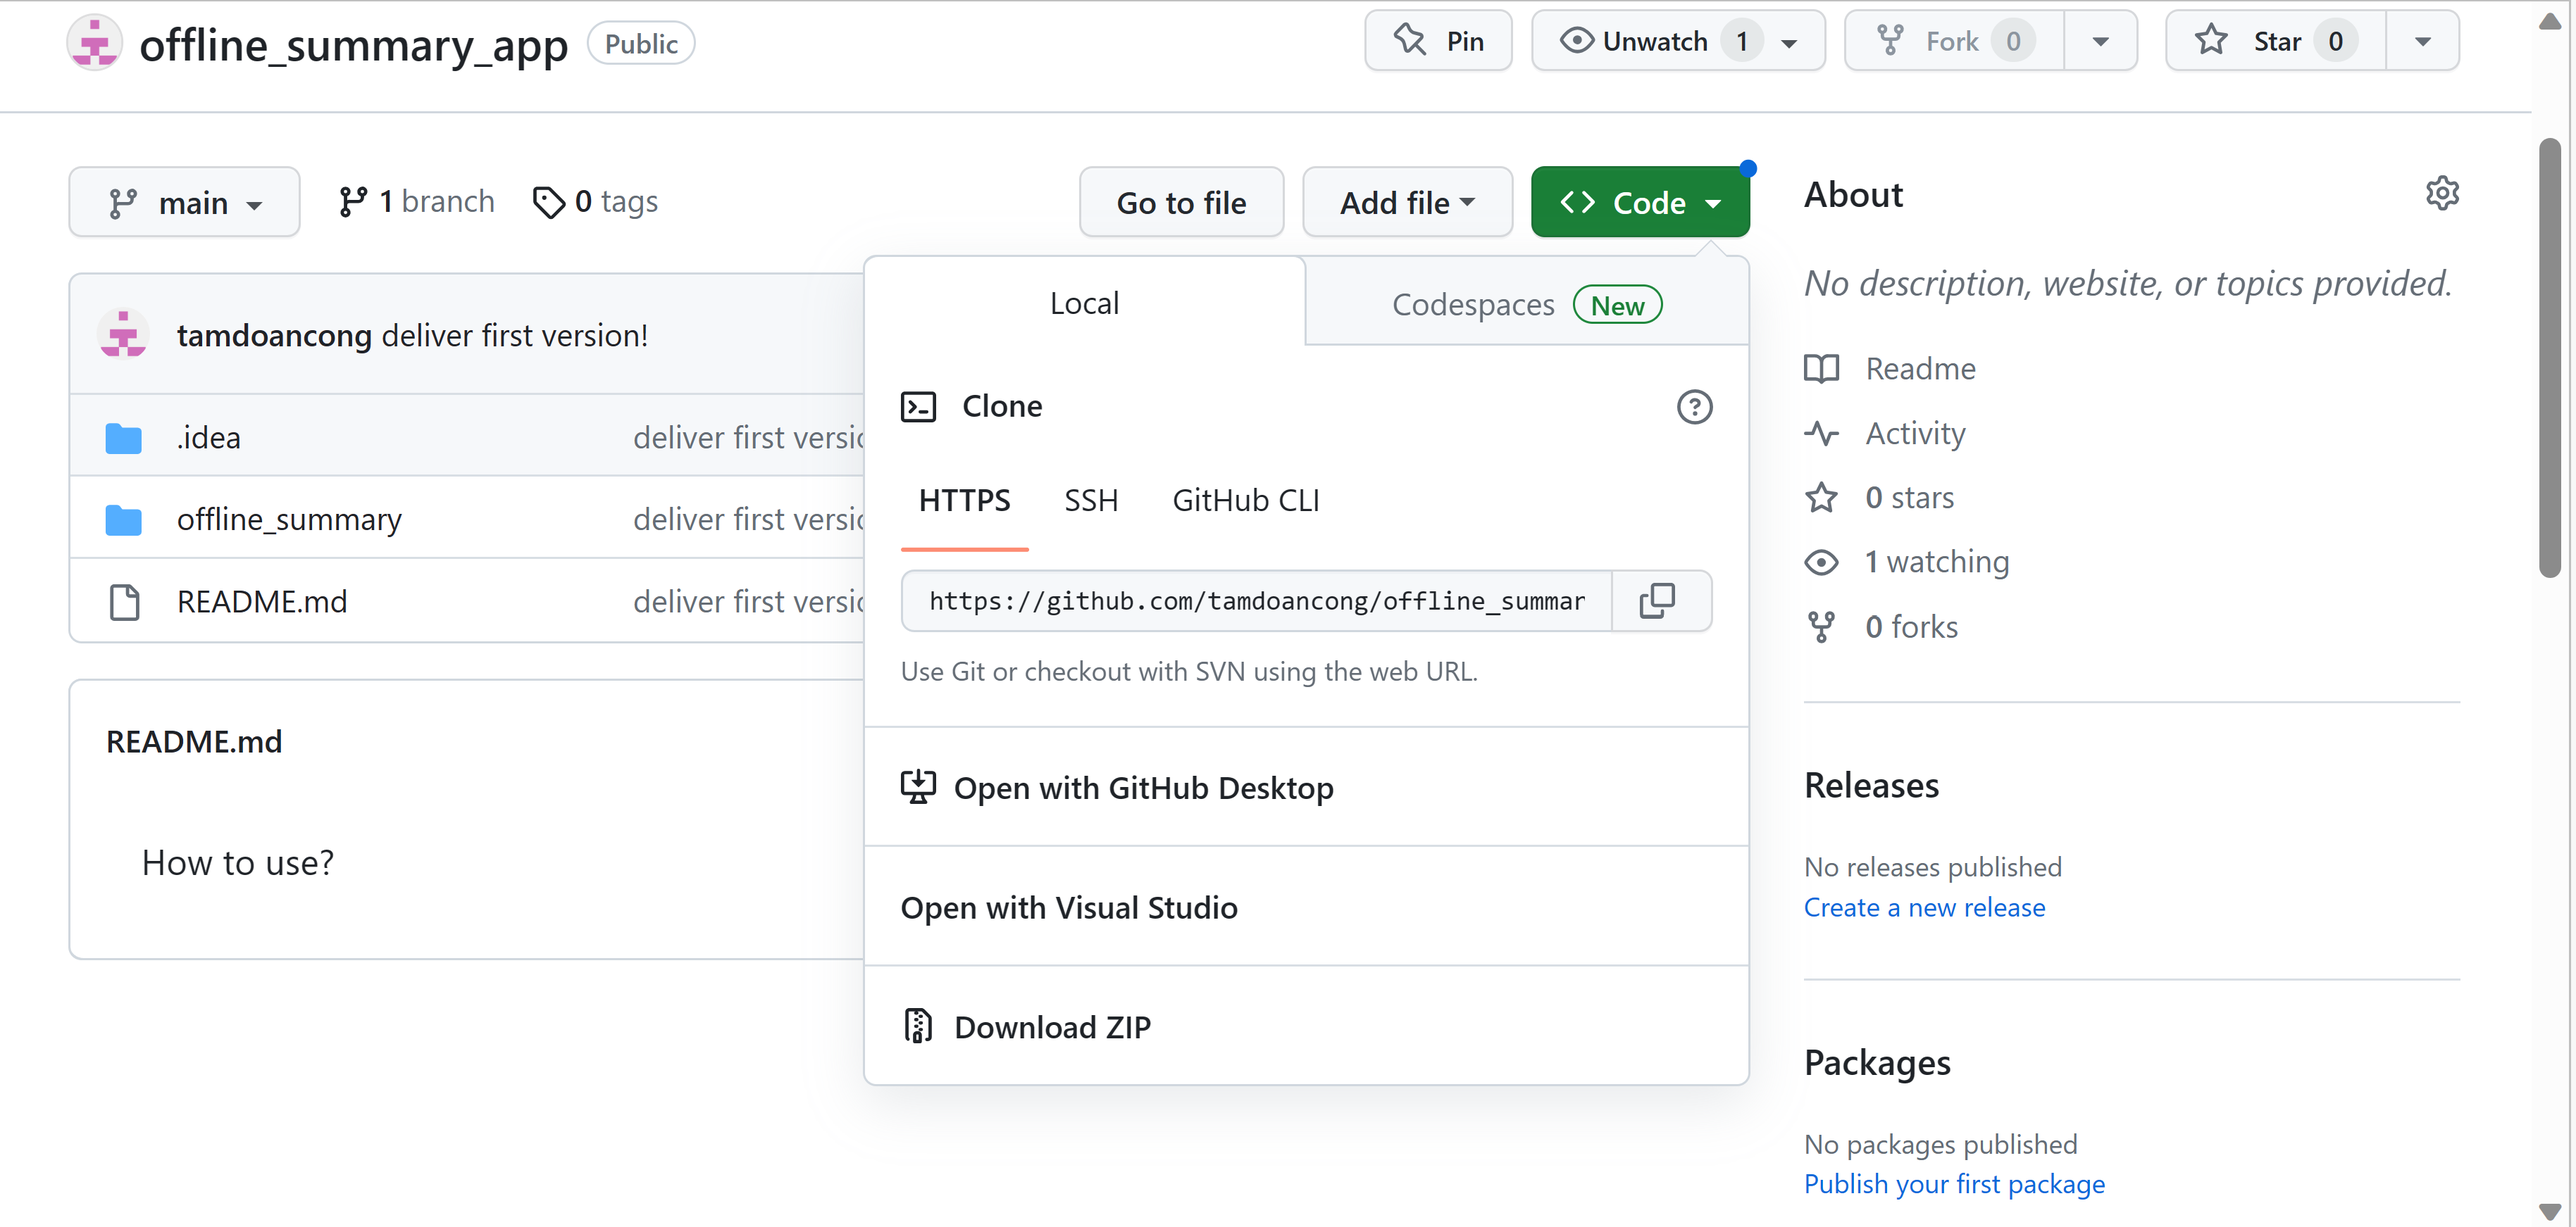
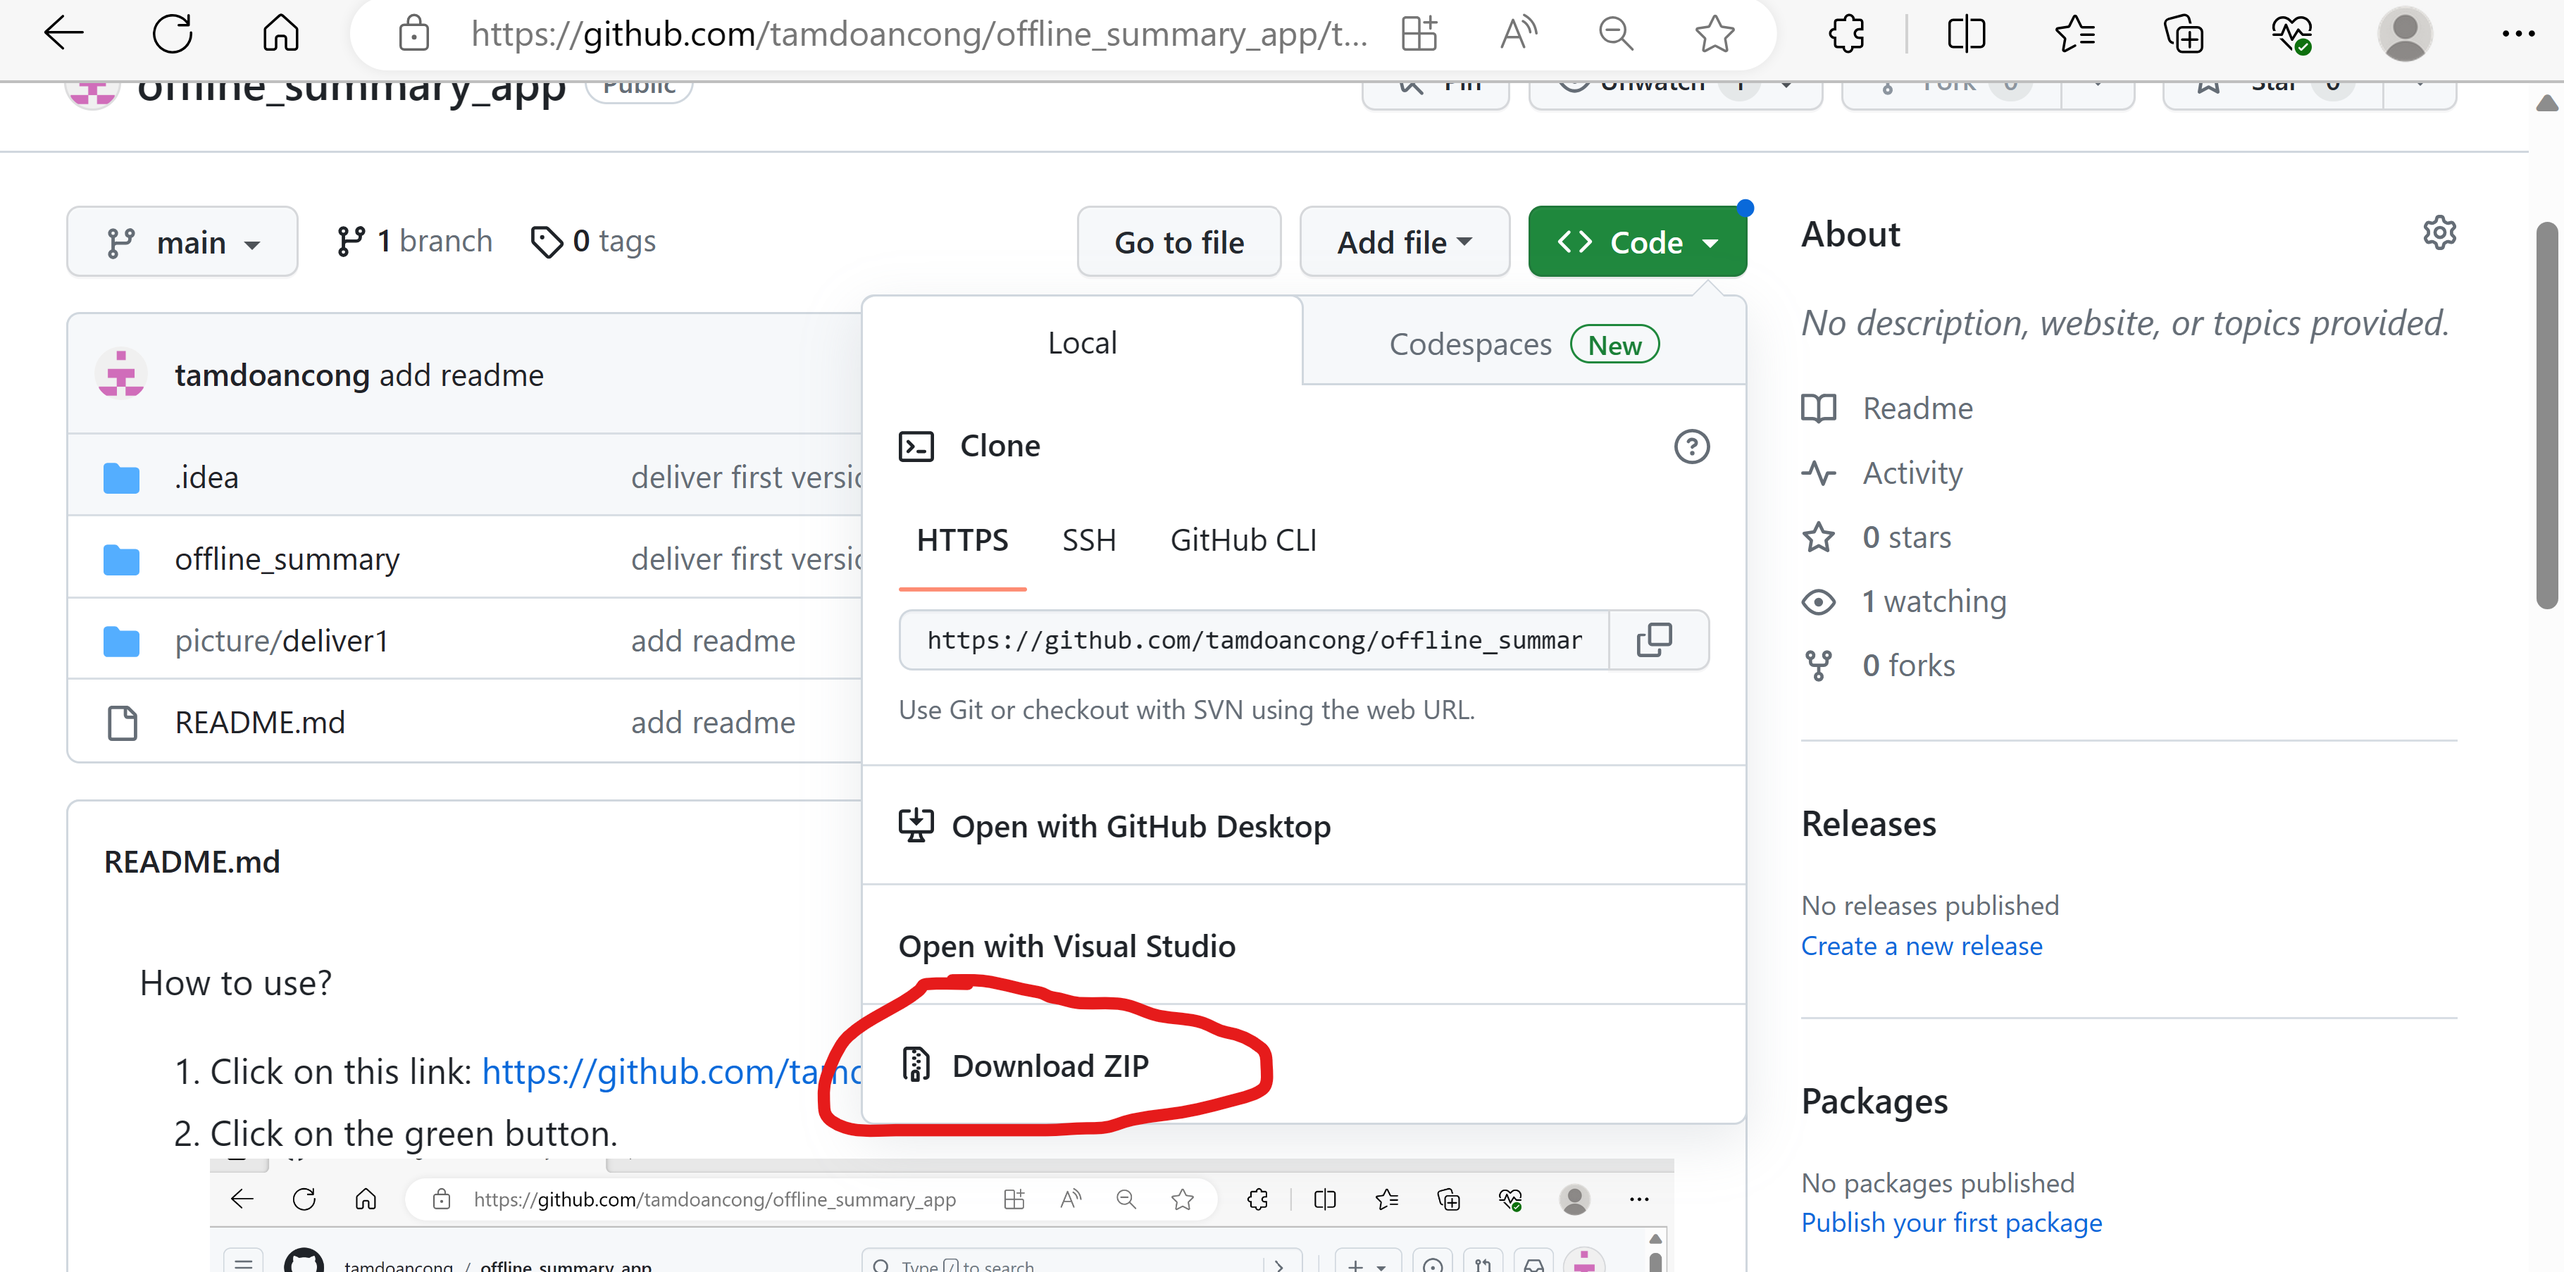
add readme

diff --git a/README.md b/README.md
@@ -3,18 +3,38 @@ How to use?
 2. Click on the green button.
    ![](https://github.com/tamdoancong/offline_summary_app/blob/main/picture/deliver1/g1.png)
 3. Click on "Dowload ZIP".
-4. Go to Downloads folder in your computer.
-5. Right-click on the zip file "offline_summary_app-main".
-6. Click "Extract All...".
-7. Right-click on the unzip file offline_summary_app-main (329 MB).
-8. Choose "Copy" or "Cut" to move this folder to a desired location (ex: App folder).
-9. Double-click on the folder "offline_summary_app-main".
-10. See "offline_summary_app-main" folder again, then double-click on the folder "offline_summary_app-main".
-11. Double-click on the  "offline_summary" folder.
-12. Double-click on the "offline_summary" file.
-13. A blue window warning appear, click on " More info",and then click " Run anyway".
-14. The app will be opened, then follow the instruction on the screen!
-15. Click "Enter" for default number of summary sentences (5 sentences) or type a desired number summary sentences and click enter.
-16. Click "Upload a File" button at the bottom.
-17. Choose a type of file (PDF or txt) then  click on a desired file.
-18. Click on open button, then a result summary will appear in the screen in few seconds!
+   ![](https://github.com/tamdoancong/offline_summary_app/blob/main/picture/deliver1/g2.png)
+4. Click on 3 dot symbol in the up right corner.
+   ![](https://github.com/tamdoancong/offline_summary_app/blob/main/picture/deliver1/g3.png)
+5. Click on an arrow dow symbol with the word "Downloads".
+   ![](https://github.com/tamdoancong/offline_summary_app/blob/main/picture/deliver1/g4.png)
+6. Click on square symbol to open downloads' folder.
+   ![](https://github.com/tamdoancong/offline_summary_app/blob/main/picture/deliver1/g5.png)
+7. Right-click on the zip file "offline_summary_app-main" then click "Extract All...".
+   ![](https://github.com/tamdoancong/offline_summary_app/blob/main/picture/deliver1/g6.png)
+8. The window "Select Destination and Extract files" will appear, then click the "Extract button" and then wait until the process complete.
+   ![](https://github.com/tamdoancong/offline_summary_app/blob/main/picture/deliver1/g7.png)
+9. Right-click on the unzip file offline_summary_app-main (329 MB).
+   ![](https://github.com/tamdoancong/offline_summary_app/blob/main/picture/deliver1/g8.png)
+10. Choose "Copy" or "Cut" to move this folder to a desired location (ex: App folder).
+11. Double-click on the folder "offline_summary_app-main".
+   ![](https://github.com/tamdoancong/offline_summary_app/blob/main/picture/deliver1/g9.png)!
+12. Double-click on the  "offline_summary" folder.
+   ![](https://github.com/tamdoancong/offline_summary_app/blob/main/picture/deliver1/g10.png)!
+13. Double-click on the "offline_summary" file.
+   ![](https://github.com/tamdoancong/offline_summary_app/blob/main/picture/deliver1/g11.png)!
+14. A blue window warning appear, click on " More info".
+   ![](https://github.com/tamdoancong/offline_summary_app/blob/main/picture/deliver1/g12.png)!
+15. Click " Run anyway".
+   ![](https://github.com/tamdoancong/offline_summary_app/blob/main/picture/deliver1/g13.png)!
+16. The app will be opened, then follow the instruction on the screen!
+   ![](https://github.com/tamdoancong/offline_summary_app/blob/main/picture/deliver1/g15.png)!
+17. Click "Enter" for default number of summary sentences (5 sentences) or type a desired number summary sentences and click enter.
+   ![](https://github.com/tamdoancong/offline_summary_app/blob/main/picture/deliver1/g16.png)!
+18. Click the "Upload a File" button at the bottom, a widow for browsing your file in your computer appear, then Choose a type of file (PDF or txt).
+   ![](https://github.com/tamdoancong/offline_summary_app/blob/main/picture/deliver1/g17.png)!
+19. Click on a desired file and click on the "Open" button, 
+    ![](https://github.com/tamdoancong/offline_summary_app/blob/main/picture/deliver1/g18.png)!
+20. A result summary will appear in the screen in few seconds!
+    ![](https://github.com/tamdoancong/offline_summary_app/blob/main/picture/deliver1/g19.png)!
+    ![](https://github.com/tamdoancong/offline_summary_app/blob/main/picture/deliver1/g20.png)!
